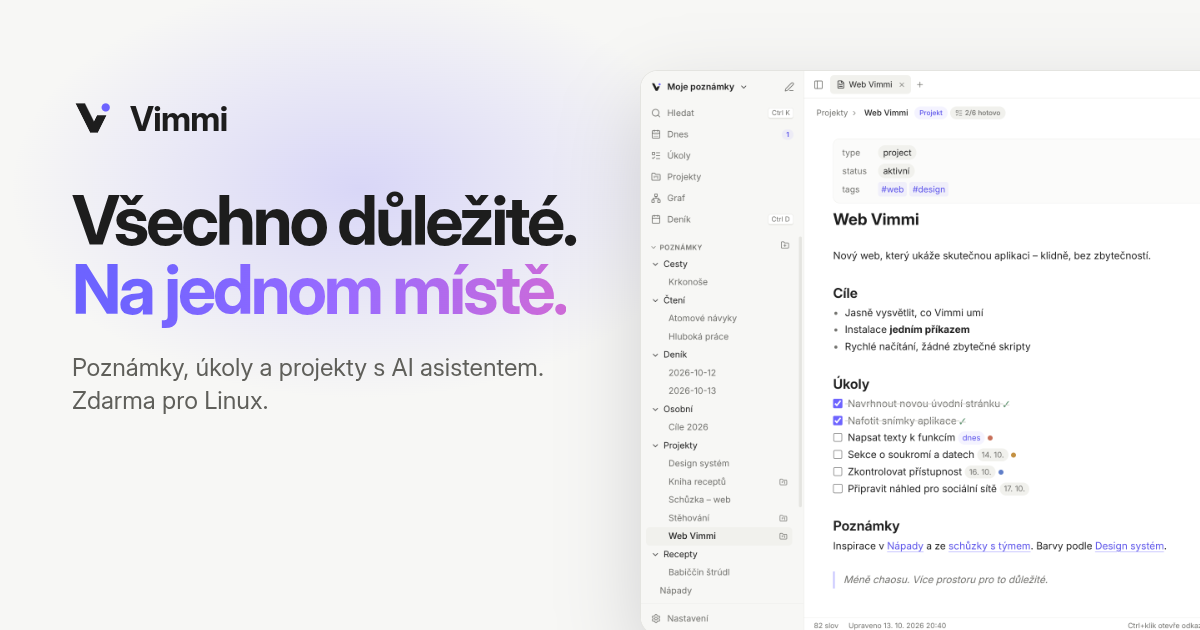
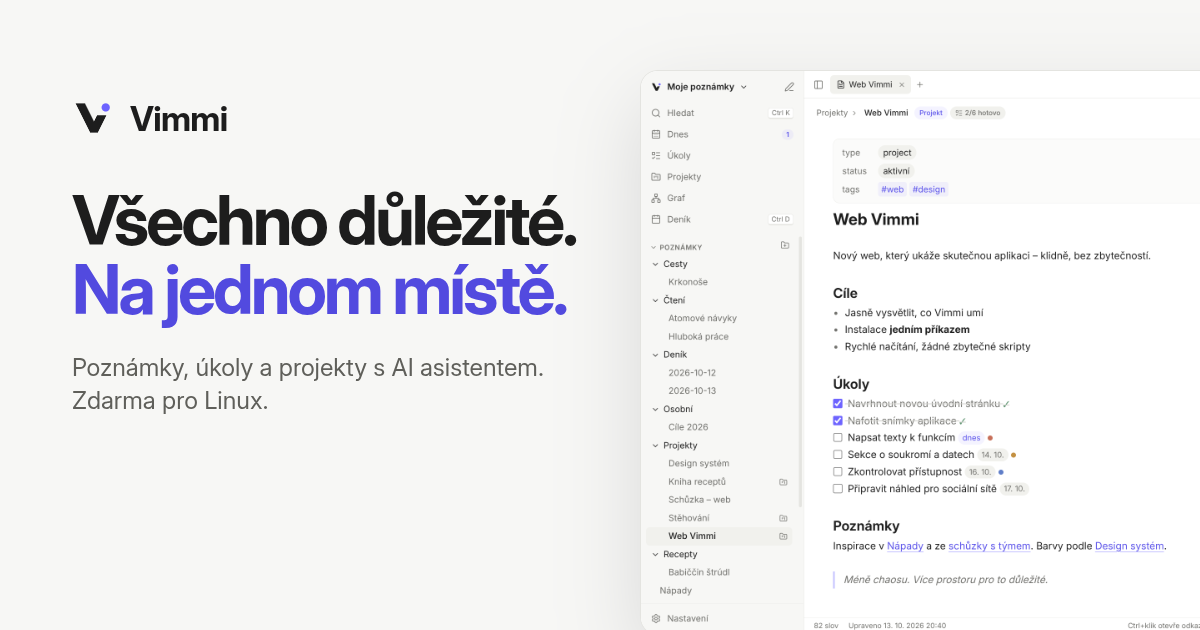
Website: remove purple gradients and glows

Changed region(s): [[0.0617, 0.4222, 0.4933, 0.5127], [0.2158, 0.2111, 0.37, 0.3921]]

diff --git a/css/style.css b/css/style.css
@@ -23,7 +23,6 @@
   --accent-text: #5149e0;
   --accent-soft: rgb(109 99 255 / 0.09);
   --accent-line: rgb(109 99 255 / 0.35);
-  --glow: rgb(109 99 255 / 0.22);
   --clay: #c86f59;
   --ochre: #c4913f;
   --sage: #4f8a63;
@@ -53,7 +52,6 @@
     --accent-text: #a49dff;
     --accent-soft: rgb(129 120 255 / 0.14);
     --accent-line: rgb(140 132 255 / 0.45);
-    --glow: rgb(109 99 255 / 0.32);
     --clay: #d6836e;
     --ochre: #d0a052;
     --sage: #75aa88;
@@ -75,7 +73,6 @@
   --accent-text: #a49dff;
   --accent-soft: rgb(129 120 255 / 0.14);
   --accent-line: rgb(140 132 255 / 0.45);
-  --glow: rgb(109 99 255 / 0.32);
   --clay: #d6836e;
   --ochre: #d0a052;
   --sage: #75aa88;
@@ -193,10 +190,7 @@ kbd {
   height: 26px;
 }
 .accent-text {
-  background: linear-gradient(100deg, var(--accent) 10%, #9b6bff 55%, #d06ad8 100%);
-  -webkit-background-clip: text;
-  background-clip: text;
-  color: transparent;
+  color: var(--accent-text);
 }
 
 /* ---------- buttons ---------- */
@@ -380,16 +374,7 @@ kbd {
   padding: clamp(56px, 9vw, 110px) 0 40px;
   overflow: hidden;
 }
-.hero-glow {
-  position: absolute;
-  inset: -200px 0 auto;
-  height: 900px;
-  background:
-    radial-gradient(600px 340px at 50% 20%, var(--glow), transparent 70%),
-    radial-gradient(500px 300px at 20% 50%, rgb(208 106 216 / 0.1), transparent 70%),
-    radial-gradient(500px 300px at 80% 55%, rgb(80 160 255 / 0.1), transparent 70%);
-  pointer-events: none;
-}
+
 .hero-text {
   position: relative;
   text-align: center;
@@ -454,15 +439,7 @@ kbd {
   position: relative;
   margin: clamp(48px, 7vw, 76px) 0 0;
 }
-.hero-shot::before {
-  content: "";
-  position: absolute;
-  inset: 8% 6% -4%;
-  background: var(--glow);
-  filter: blur(80px);
-  border-radius: 50%;
-  z-index: -1;
-}
+
 .window {
   border-radius: var(--radius-lg);
   border: 1px solid var(--border);
@@ -900,14 +877,7 @@ kbd {
   box-shadow: var(--shadow-window);
   overflow: hidden;
 }
-.download-card::before {
-  content: "";
-  position: absolute;
-  inset: -40% -20% auto;
-  height: 360px;
-  background: radial-gradient(closest-side, var(--glow), transparent);
-  pointer-events: none;
-}
+
 .download-card .section-head {
   position: relative;
   margin-bottom: 32px;

diff --git a/index.html b/index.html
@@ -88,7 +88,6 @@
   <main id="obsah">
     <!-- Hero -->
     <section class="hero" id="top">
-      <div class="hero-glow" aria-hidden="true"></div>
       <div class="wrap hero-text">
         <a class="pill-link reveal" href="#ai">
           <span class="pill-new">Nové</span> AI asistent s&nbsp;Claude a&nbsp;OpenRouterem
